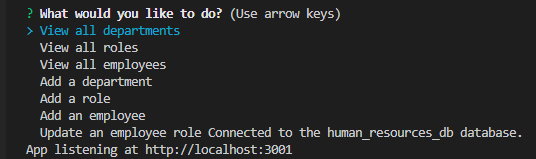
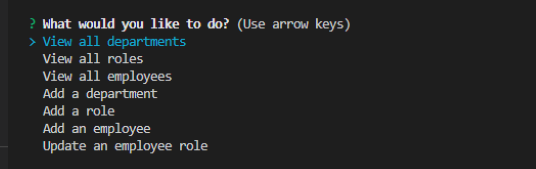
edits console log in server file; edits README scrnshot and text

Changed region(s): [[0.0299, 0.0503, 0.9851, 1.0]]

diff --git a/server.js b/server.js
@@ -14,5 +14,5 @@ const PORT = process.env.PORT || 3001;
 const app = express();
 
 app.listen(PORT, () =>
-  console.log(`App listening at http://localhost:${PORT}`)
+  console.log("")
 );

diff --git a/README.md b/README.md
@@ -3,7 +3,7 @@
 # Employee Tracker
 
 ## Description: 
-  This application is a  from the command-line interface. 
+  The Employee Tracker application is a human resources management tool that runs in the command-line interface. 
   &nbsp;
   &nbsp;
 
@@ -32,7 +32,8 @@
   >                  node server.js
   
 
-  Follow the prompts to select the functions you want to run. 
+  Follow the prompts to select the functions you want to run. To exit the program: 
+  >                  ctrl + C
 <br>
   &nbsp;
   &nbsp;
@@ -50,7 +51,7 @@ Example screenshot:
   &nbsp;
 Video Walkthrough:
 
-  [![Video walkthrough demonstrating the functionality of the application](./images/walkthru-scrnshot.png)]()
+  [![Video walkthrough demonstrating the functionality of the application](./images/walkthru-scrnshot.png)](https://watch.screencastify.com/v/mDUgY7x1kCMbPTKj8b0W)
 
   &nbsp;
   &nbsp;
